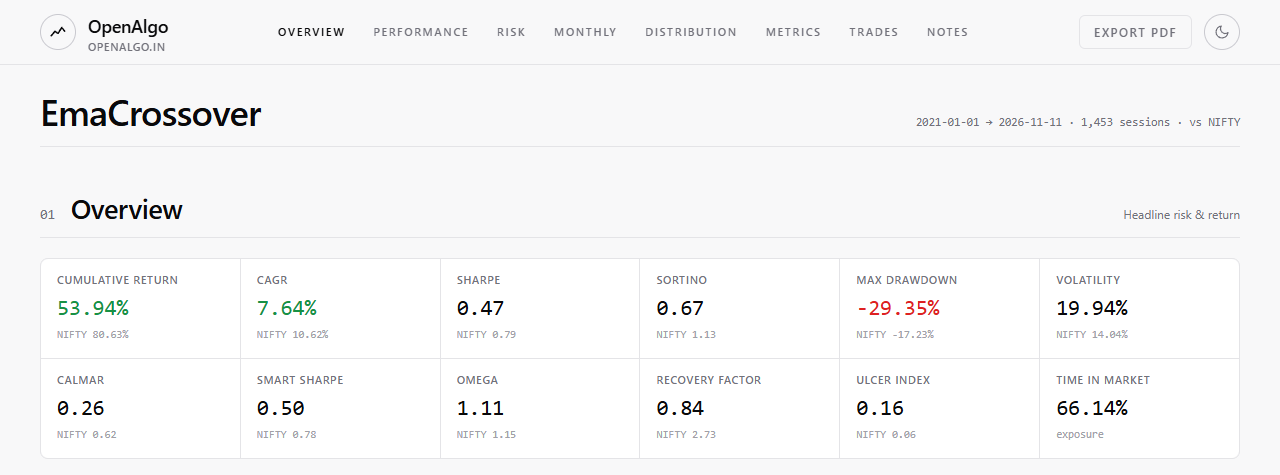
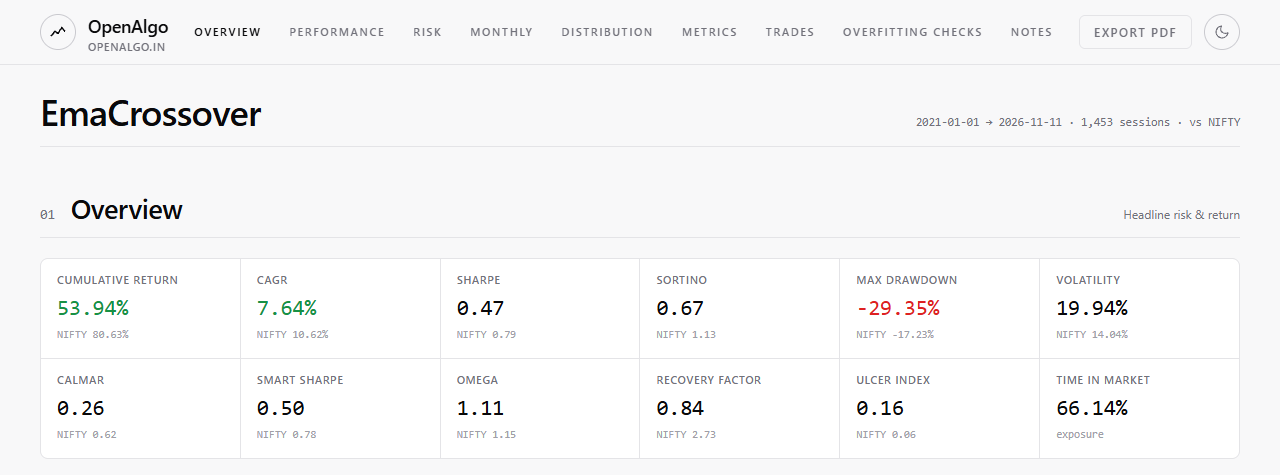
Python docs: the tearsheet's nine sections, and the searching checks' ranges
- The Tearsheet: the header now links to Overfitting checks and Notes is
  section 09, so the top, dark and Notes screenshots are regenerated
  from the same run (nothing else in them changed); the page counts nine
  numbered sections, its basic mode and "What to look at first" list the
  overfitting checks.
- Results and Reports: the tearsheet's section table and basic mode list
  the Overfitting checks section.
- Robustness: walk-forward and the noise-robust optimization need
  parameter ranges; out of sample and the parameter neighbourhood also
  run without them (checked: without ranges the neighbourhood moves each
  number parameter 10 percent, 8 neighbours for the MACD crossover).

Claude-Session: https://claude.ai/code/session_017rzcGvTmmTpXZ4JeaauUmx

Changed region(s): [[0.1562, 0.0589, 0.8125, 0.0884]]

diff --git a/trading-platform/python/backtesting/tearsheet.md b/trading-platform/python/backtesting/tearsheet.md
@@ -54,7 +54,7 @@ Open sbin.html in your browser
 
 Open `sbin.html` with a double-click, or drag it into your browser. Everything is inside the one file: it opens without an internet connection, and you can email it or keep it with your notes. It holds the results and the settings of the run, never your API key.
 
-The page has eight numbered sections, one under the other. The rest of this page shows each of them for this run. To learn what a figure means, see [Metrics Explained](metrics-explained.md).
+The page has nine numbered sections, one under the other. The rest of this page shows each of them for this run. To learn what a figure means, see [Metrics Explained](metrics-explained.md).
 
 ## The header and the Overview
 
@@ -229,7 +229,7 @@ Open sbin_basic.html in your browser
 | `mode=` | What the page holds |
 |---|---|
 | `"full"` (the default) | Every section |
-| `"basic"` | The Overview, the cumulative return and the returns by horizon, the drawdown chart and the worst drawdowns, the monthly heatmap and the yearly returns, the trades, the trading cost, the MAE and MFE histograms and the charges, and the Notes |
+| `"basic"` | The Overview, the cumulative return and the returns by horizon, the drawdown chart and the worst drawdowns, the monthly heatmap and the yearly returns, the trades, the trading cost, the MAE and MFE histograms and the charges, the overfitting checks, and the Notes |
 | `"metrics"` | Every figure with its value and definition, and the settings the run used |
 | `"charts"` | Every chart and nothing else, the MAE and MFE histograms and scatter charts included |
 
@@ -241,7 +241,8 @@ Open sbin_basic.html in your browser
 4. **The annual returns:** did the strategy make money in most years, or in one or two?
 5. **The trade list:** did the profit come from many trades or from a few?
 6. **The MAE and MFE charts:** did the losers end near your stop, and did the winners keep most of their best open profit?
-7. **The warnings** at the end of the Notes.
+7. **The overfitting checks:** with 30 or more closed trades, did the quick checks hold up? Before you trust the figures, run the [full set](robustness.md).
+8. **The warnings** at the end of the Notes.
 
 ## More options
 

diff --git a/trading-platform/python/backtesting/results-and-reports.md b/trading-platform/python/backtesting/results-and-reports.md
@@ -225,6 +225,7 @@ At the top, a header links to each section and has an **Export PDF** button (you
 | Distribution | How the daily returns spread: a histogram and a box plot |
 | Metrics | Every figure in one table you can sort, with the benchmark's beside it |
 | Trades | The trade figures, the trading cost (charges plus slippage), the MAE and MFE of the trades as tiles, histograms and scatter charts, the trade list of `result.trade_list()` (sort it by any column, page by page), the charges by component and the R-multiples of trades opened with a stop-loss |
+| Overfitting checks | The four [quick checks](#overfitting-checks) of the closed trades, each with its figure, rule and verdict |
 | Notes | How the figures were worked out, every setting the run used and every warning |
 
 What to look at first: the Overview tiles for the return and the max drawdown, the cumulative return chart in Performance (did the account grow steadily, or in one lucky stretch?), the drawdown chart in Risk (how deep and how long were the bad patches?), the trade list in Trades, and the warnings at the end of Notes. Under a tile, a second figure is the benchmark's, measured the same way, when the run has a benchmark. Hover over a chart to read its values.
@@ -234,7 +235,7 @@ What to look at first: the Overview tiles for the return and the max drawdown, t
 | `mode=` | What the page holds |
 |---|---|
 | `"full"` (the default) | Every section |
-| `"basic"` | The Overview, the cumulative return and period returns, the drawdown chart and the worst drawdowns, the monthly heatmap and the yearly returns, the trades, the trading cost, the MAE and MFE histograms and the charges, and the Notes |
+| `"basic"` | The Overview, the cumulative return and period returns, the drawdown chart and the worst drawdowns, the monthly heatmap and the yearly returns, the trades, the trading cost, the MAE and MFE histograms and the charges, the overfitting checks, and the Notes |
 | `"metrics"` | Every figure with its value and definition, and the settings the run used |
 | `"charts"` | Every chart and nothing else, the MAE and MFE histograms and scatter charts included |
 

diff --git a/trading-platform/python/backtesting/robustness.md b/trading-platform/python/backtesting/robustness.md
@@ -292,7 +292,7 @@ These run the strategy again on its own bars with one detail changed.
 
 ### The searching checks
 
-These search the strategy's settings, so they need ranges of values: give them as keywords named after the parameters (`fast=(8, 12, 16)`), or declare them on the class with `bt.param`. They are the checks that can see settings picked as the best of many tries.
+These search the strategy's settings over ranges of values: give the ranges as keywords named after the parameters (`fast=(8, 12, 16)`), or declare them on the class with `bt.param`. Walk-forward and the noise-robust optimization need ranges; out of sample and the parameter neighbourhood also run without them, as described below. With ranges, these are the checks that can see settings picked as the best of many tries.
 
 * **Out of sample** (`out_of_sample`): *Does it work on bars the search never saw?* Searches the ranges on the first 70 percent of the sessions, then runs the best setting once on the last 30 percent. Passes when that last part makes money and keeps at least half of the first part's figure (a total such as the net profit is compared per year). Without ranges it splits your run as it is. A failure says the best settings of the past did not carry over to the next years.
 * **Walk-forward** (`walk_forward`): *Does it hold when re-fitted through time?* Does the out-of-sample test five times, each time a little later in history, and joins the five tested stretches into one equity curve. Passes when that curve makes money, its walk-forward efficiency (the tested stretches' figure per year over the searched ones') is at least 0.5, and at least 60 percent of the stretches make money. [Walk-Forward](walk-forward.md) explains it with an example.
